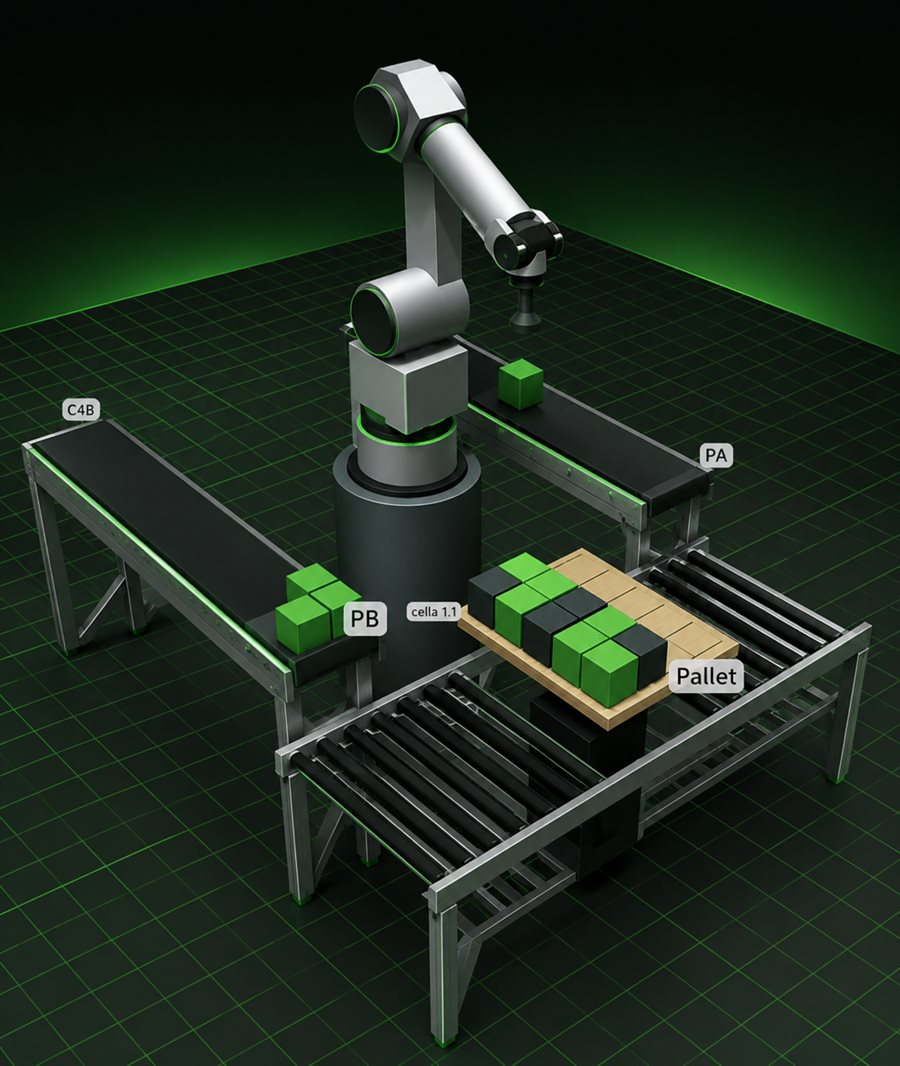
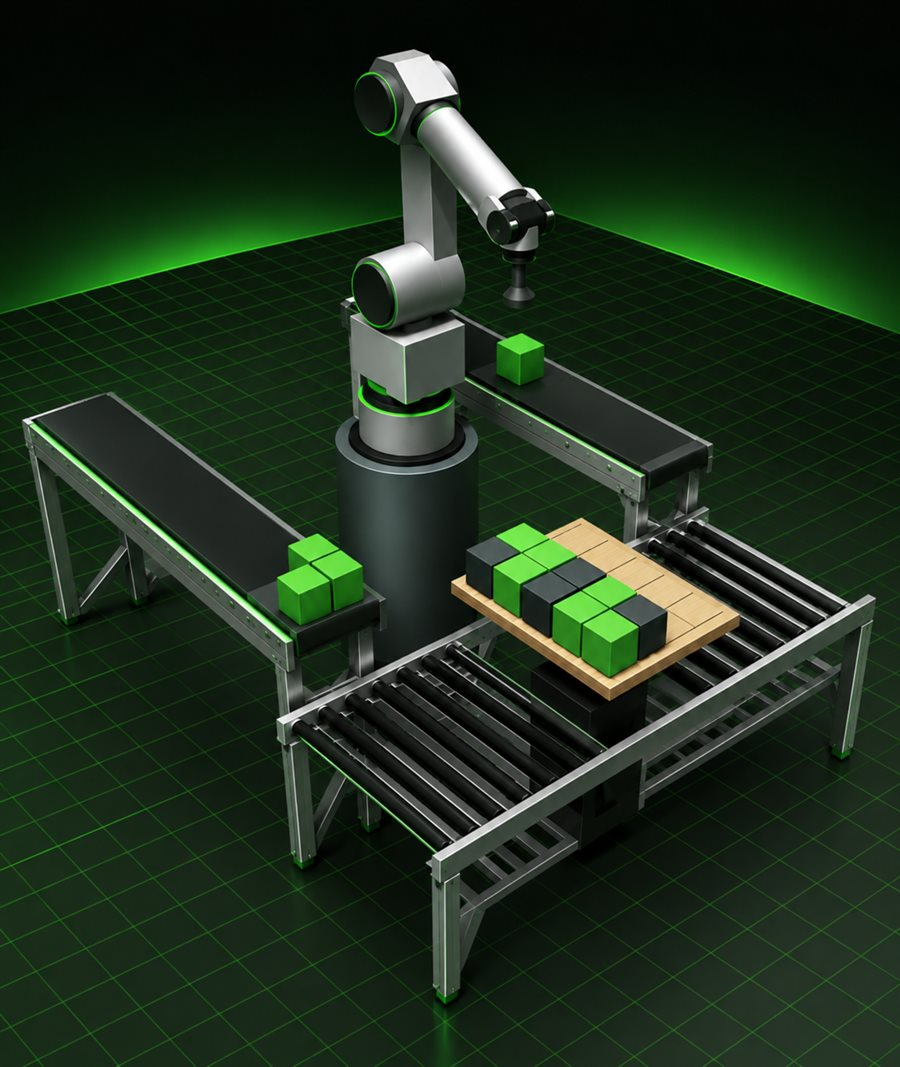
Update production line image and move its link closer to the text
The new render drops the overlay labels. The simulator link now sits
right under the description, with more room before the tags.

diff --git a/public/index.html b/public/index.html
@@ -570,8 +570,9 @@
       height: auto;
       border: 1px solid var(--border);
     }
+    /* Sits close to the description and keeps more room before the tags. */
     .project-link {
-      margin-top: 0.6rem;
+      margin: 0.1rem 0 0.6rem;
       font-size: 0.85rem;
       font-weight: 500;
       color: var(--accent);
@@ -1062,7 +1063,7 @@
       // Set visible: false to hide a project from the site without deleting it.
       const projectMeta = {
         'motor-line':     { visible: true, tags: ['Beckhoff','C#','SCADA','Automotive'] },
-        'line-twin':      { visible: true, tags: ['Digital Twin','OPC UA','KUKA','MES','Web HMI','3D'], image: 'Progetti/productionLine/productionLine.jpg', imageWidth: 900, imageHeight: 1066, link: 'https://demo-linea-robot.agautomation.it/' },
+        'line-twin':      { visible: true, tags: ['Digital Twin','OPC UA','KUKA','MES','Web HMI','3D'], image: 'Progetti/productionLine/productionLine.jpg', imageWidth: 900, imageHeight: 1067, link: 'https://demo-linea-robot.agautomation.it/' },
         'drive-testing':  { visible: true, tags: ['.NET','Test Automation','ADS Protocol','EV'] },
         'results-db':     { visible: true, tags: ['SQL Server','ASP.NET','REST API','Quality Mgmt'] },
         'solar-tracking': { visible: true, tags: ['ESP32','Embedded Firmware','Wireless','Monitoring','Photovoltaics'], image: 'Progetti/pannelli/pannello.jpg', imageWidth: 1200, imageHeight: 675 },
